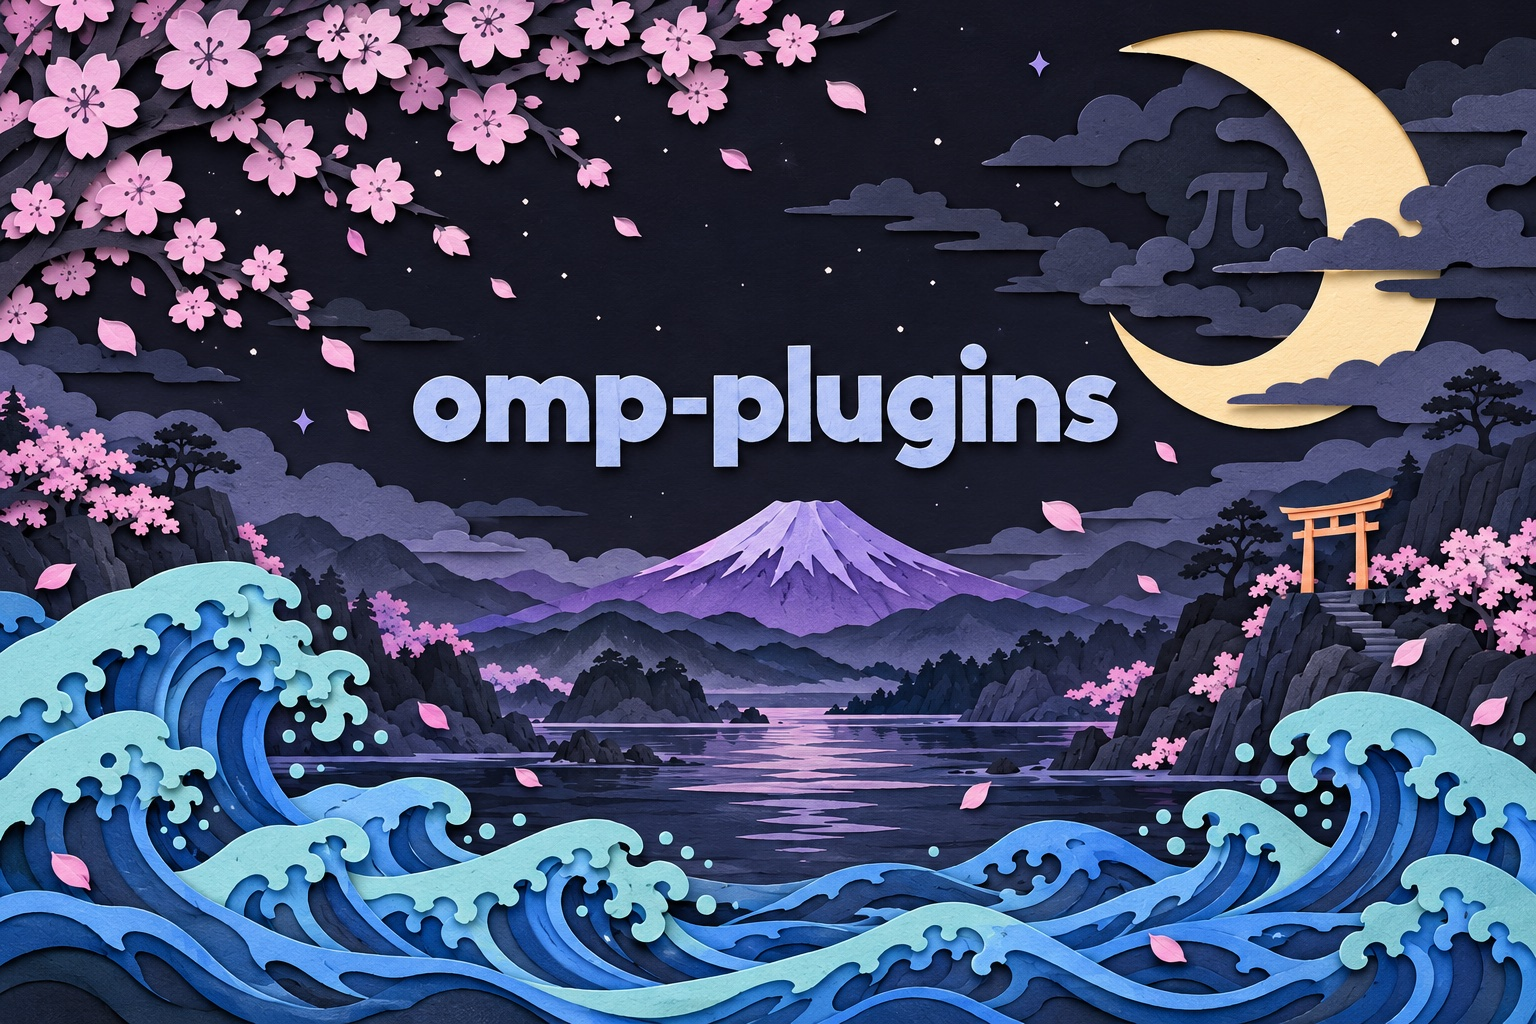
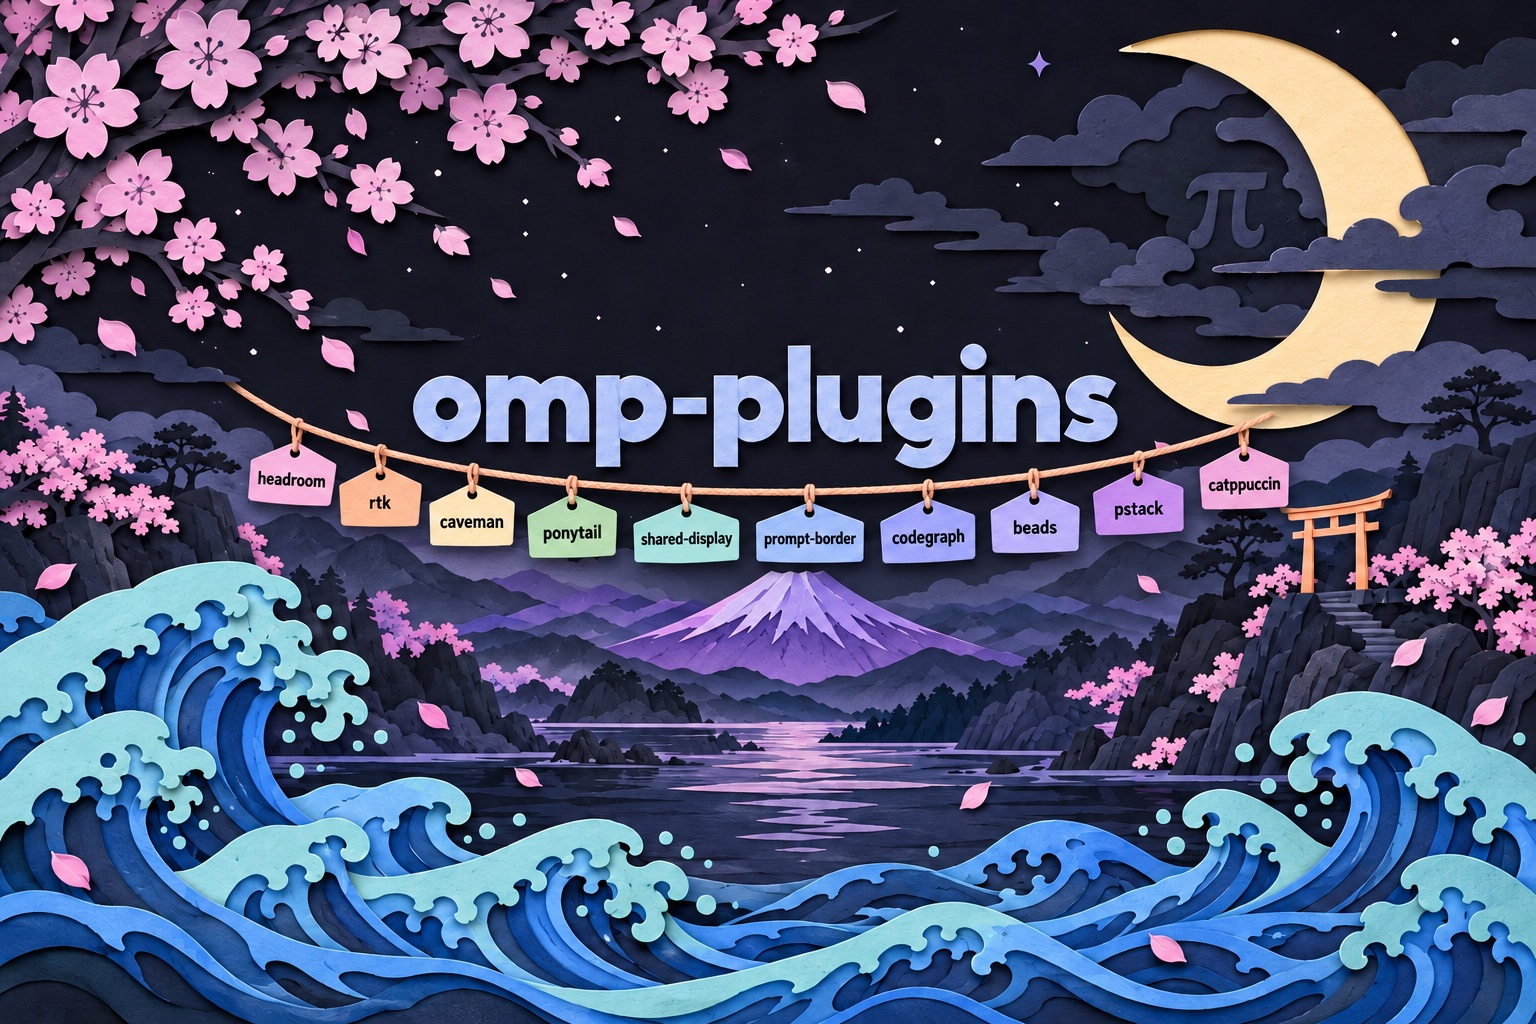
docs: feature labels on omp-plugins cover, cover art for pstack
The omp-plugins cover now names every feature on paper ema plaques. pstack gets its own Catppuccin Mocha paper-cut cover in packages/pstack/assets/, shipped in the release tree so the seenark/omp-pstack README shows it. pstack 1.1.1 -> 1.1.2.

diff --git a/packages/pstack/src/release/build.test.ts b/packages/pstack/src/release/build.test.ts
@@ -66,7 +66,7 @@ describe("release build", () => {
 	afterAll(() => fs.rmSync(work, { recursive: true, force: true }));
 
 	it("lays out the plugin tree", () => {
-		for (const entry of ["package.json", "README.md", "THIRD-PARTY-NOTICES.txt", "src/index.js", "src/verdict.ts", "skills/bro/SKILL.md", "agents/pstack-judge.md"]) {
+		for (const entry of ["package.json", "README.md", "THIRD-PARTY-NOTICES.txt", "src/index.js", "src/verdict.ts", "skills/bro/SKILL.md", "agents/pstack-judge.md", "assets/cover.jpg"]) {
 			expect(fs.existsSync(path.join(first, entry))).toBe(true);
 		}
 		expect(fs.existsSync(path.join(first, "plugin.json"))).toBe(false);

diff --git a/packages/pstack/src/release/build.ts b/packages/pstack/src/release/build.ts
@@ -17,7 +17,7 @@ export const PACKAGE_ROOT = path.resolve(import.meta.dir, "..", "..");
 
 const VERSION = /^\d+\.\d+\.\d+(?:-[0-9A-Za-z.-]+)?$/;
 const TEST_FILE = /\.test\.[cm]?[jt]sx?$/;
-const COPIED = ["skills", "agents", "README.md", "THIRD-PARTY-NOTICES.txt"] as const;
+const COPIED = ["skills", "agents", "assets", "README.md", "THIRD-PARTY-NOTICES.txt"] as const;
 const BUNDLE = "src/index.js";
 const VERDICT = "src/verdict.ts";
 

diff --git a/packages/pstack/README.md b/packages/pstack/README.md
@@ -1,3 +1,7 @@
+<p align="center">
+  <img src="assets/cover.jpg" alt="pstack cover: a five-tier paper-cut pagoda, a playbook scroll, a panel of five owls and two guardian lions in Catppuccin Mocha colors" width="100%">
+</p>
+
 # @codesook/omp-pstack
 
 [pstack](https://github.com/cursor/plugins/tree/main/pstack) workflows for [oh-my-pi](https://github.com/can1357/oh-my-pi). pstack does nothing until you start it.
@@ -34,7 +38,7 @@ bun run build:release -- --decide          # would this version release? prints 
 bun run build:release -- --out <dir>       # build the plugin tree into <dir>
 ```
 
-The tree is deterministic: the same commit gives byte-identical output. It holds `skills/`, `agents/`, `README.md`, `THIRD-PARTY-NOTICES.txt`, a `package.json` with no `dependencies` (the `@oh-my-pi/*` packages are peers) and an `omp` key, and `src/` with two files: `index.js`, the extension bundled with every `@codesook/*` import inlined, and `verdict.ts`, the panel verdict helper that `panel-verdicts.md` imports from `<skill dir>/../../src/verdict.ts`. The sync engine, tests and dev tooling stay out. The release build is `src/release/build.ts`.
+The tree is deterministic: the same commit gives byte-identical output. It holds `skills/`, `agents/`, `assets/` (the README cover), `README.md`, `THIRD-PARTY-NOTICES.txt`, a `package.json` with no `dependencies` (the `@oh-my-pi/*` packages are peers) and an `omp` key, and `src/` with two files: `index.js`, the extension bundled with every `@codesook/*` import inlined, and `verdict.ts`, the panel verdict helper that `panel-verdicts.md` imports from `<skill dir>/../../src/verdict.ts`. The sync engine, tests and dev tooling stay out. The release build is `src/release/build.ts`.
 
 This package is not a root `omp.features` entry. Features gate extensions only, and listing it there as well as installing it would load the extension twice.
 
